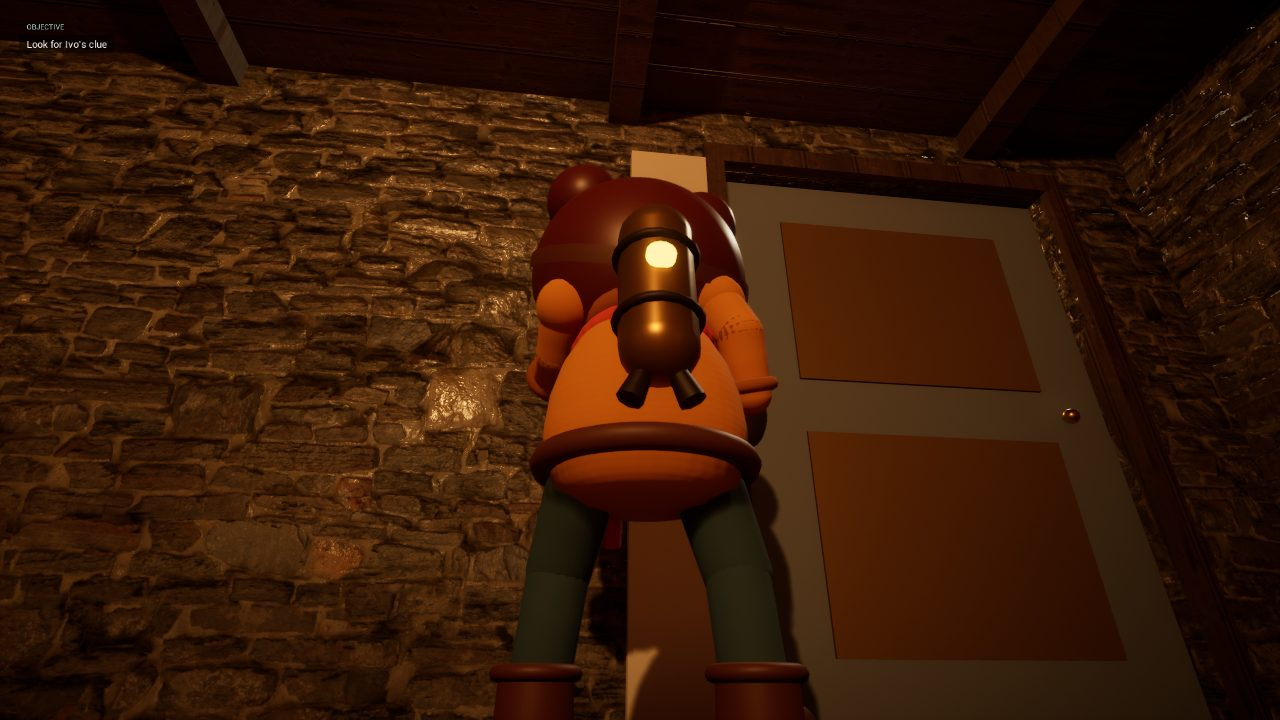
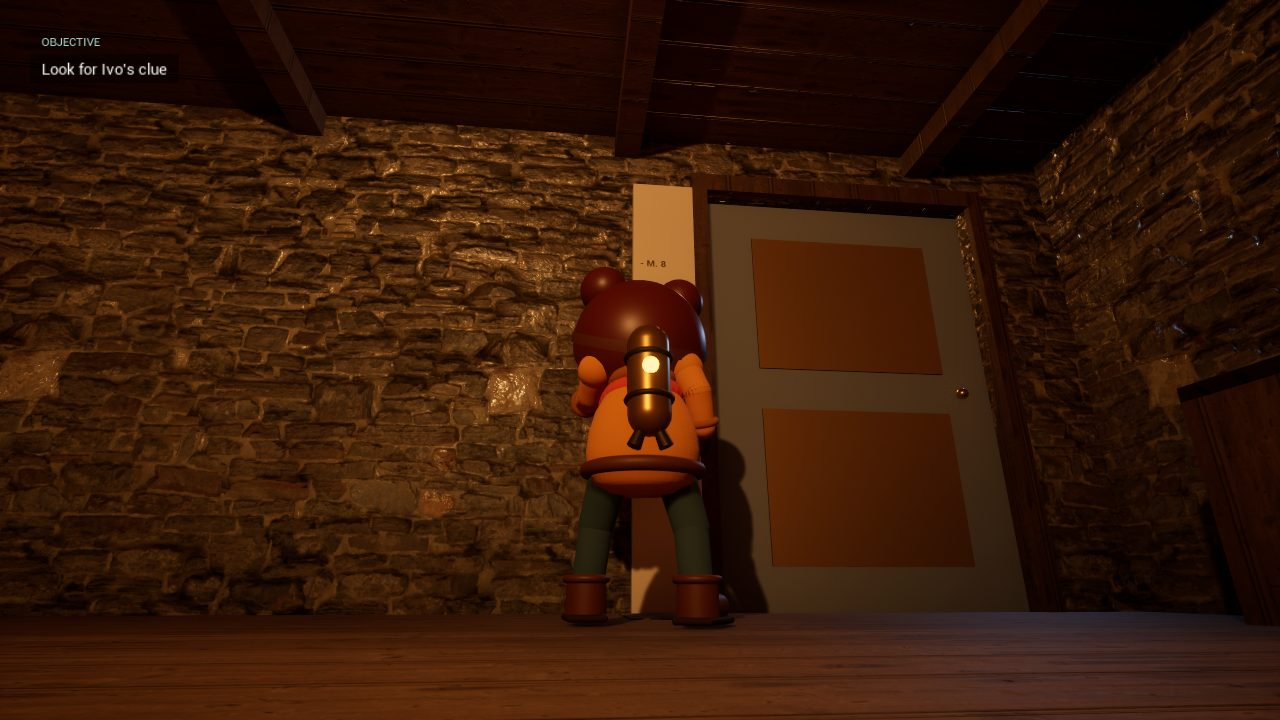
Docs: where the game stands, the repair pass, the packaged results, the itch page

diff --git a/docs/HOUSE_REPAIR_PASS.md b/docs/HOUSE_REPAIR_PASS.md
@@ -1,0 +1,83 @@
+# Repair pass on the Stormworks → house → reveal sequence (2026-10-30)
+
+Each item from the review of the 2:11 recording of 2026-10-29, what caused it, and what was done. The
+recording itself was not on this machine, so defects were reproduced in new captures. Everything
+"verified" below is verified by the bot or by measurement. Nobody has played this pass by hand yet.
+
+## Fixed, with the cause
+
+| ID | Finding | Cause found | Fix | How it was checked |
+| --- | --- | --- | --- | --- |
+| C05 | Mara head-down in the tow and when swimming | Measured from the clips: `swimFwd` already lies flat (neck 27 cm ahead of the pelvis at the same height). The code added up to 70° on top, about 160° in all. The 70° was the web game's constant, carried over | One owner for her body in `MaraCharacter::Tick`: the clip lies her flat, the code only pitches that flat body along her travel. "Towed" is now an explicit state, not inferred from `IsFlying` | Bot: head leads her travel (cosine 0.96 in the tow); floats upright when still |
+| C06 | Bubble away from her head | Fixed offset in the mesh's frame, so it never followed the head bone | Attached to the `Head` bone, offset computed from the bind pose | Bot: never more than 20 cm from the bone |
+| C01 | Washing and Mara's head filling the view | The sheets have no collision, so the camera can end up behind one. Walls push the boom into her head | Sheets near the lens ride up to the rope; the boom rises over her as it shortens; she is hidden from the lens at the very last | Laundry: not yet seen in a capture of the exact spot, see below |
+| C02, C03 | T-pose, checker materials, loading text, sky warning on arrival | The level was shown while animations, textures, meshes and shaders were still arriving. The sky warning fires while the template's sky mesh is not ready | `AReadyGate`: a title card over the paused game until nothing is compiling or streaming, with a timeout that logs. It tests conditions, not a delay | Bot through the real level change: no T-pose (hand 31 cm from the bind pose) |
+| C04 | Lighthouse floating over blocks | It stood on stacked boxes, close to the house, with the scan's plaza fragments exposed | Moved to about 50 m from the jetty, on a crag of tilted slabs, its feet set into the rock's top | Screenshot `01_jetty` |
+| C07 | Stale "Get the gauge back" | The objective was only set once | Cleared for the grab, "Steer around the floating wreckage" for the tow, "Find the gauge", then "Swim to the gauge" | Bot checks the tow's objective, watched or skipped |
+| Q01 | Nacre as cables and a ball | Stretched spheres | A real tapered tube (one procedural mesh per arm), paler underside, suckers, wet rim. A lathed mantle that breathes. Eyes with bar pupils | Screenshots |
+| Q02, Q05 | Red catwalk; silhouettes; "Swim to the light" among many lights | Alarm lamps at 12,800; windows and seeds brighter than anything that mattered | Alarm pulse reduced by about two thirds. Windows, seeds and lanterns dimmed. A soft light on Mara under water. A warm glint on the gauge, which is now the objective | Screenshots |
+| Q06 | Small text | UI scale could fall to 0.6 | Larger everywhere, minimum 1.04 at 720p | Screenshots at 1536 wide |
+
+Also from the review's leads:
+
+- **Tow steering:** left and right came from world up each frame and could collapse on steep stretches.
+  They are now carried along the path. Verified with real keys: 140 cm right in the hall, 140 cm left
+  down the steep shaft, 140 cm up in the passage.
+- **Water scope:** still the default physics volume, set at the reveal. See *Not done*.
+
+## Found by moving the bot onto real keys
+
+The bot now walks with W, presses E, steers with WASD, and swims with Space and C, through the input
+mappings. That found a bug no earlier test could: **Space did not swim her up at all** (0 cm).
+`ACharacter::bPressedJump` lasts a single frame when there is no jump hold time. She has her own flag
+now (229 cm in one second).
+
+## Audio: the numbers changed the plan
+
+The review's −30.4 LUFS came from the capture. `tools/unreal/measure_audio.py` measures what the game
+itself outputs (`-HouseRecordAudio`): **−22.7 LUFS integrated, −8.1 dBFS sample peak**, close to the
+usual −24 LUFS home target. About 8 dB of the "quiet mix" was capture gain, so nothing was boosted.
+Added instead: the splash and closing water at the surface, her swim strokes, the wobble of the bubble,
+the storm through the cracks at the searchlight, and a cut to her heartbeat at the grab.
+
+**Nobody has listened to any of this**, including me. These are levels, not judgements.
+
+## Results (2026-10-31)
+
+One continuous run, Stormworks then the house, 1600×900 on the RTX 2050 laptop: **67/67 and 37/37**,
+mean frame 28.7 ms and 28.6 ms. The same result came from each of the last four runs.
+
+- **Frame time:** the 37 ms seen earlier was not the new content. With no Ollama model loaded the house
+  is back at about the old 27.6 ms. No matched before/after run was made.
+- **GPU stall:** one run froze with GPU timeouts over 5 s. Ollama holds 2 GB of this card's 4 GB when a
+  model is loaded and reloaded during that session; the link is likely, not proven.
+- **Unfocused audio:** Unreal mutes an unfocused game, recordings included.
+  `-ini:Engine:[Audio]:UnfocusedVolumeMultiplier=1.0` keeps it on.
+
+## The packaged game (2026-11-01)
+
+Windows Shipping build, 355 MB zip, title "It Only Needs Mara" (the internal project is still
+`ItTakesOne`). Tested from the extracted zip: **67/67 and 37/37**, mean frame 22.5 ms (about 45 fps) at
+1600×900, with no model in Ollama. Playable 15.4 s after a first launch and 11.3 s after a later one.
+The 52 s freeze of an uncooked `-game` run does not happen.
+
+The packaged run found a bug the editor cannot: the washing line was built only in `OnConstruction`,
+which a cooked game does not run, so it was missing. `BeginPlay` now builds it when it is absent.
+
+Rebuild: `RunUAT BuildCookRun -clientconfig=Shipping -build -cook -stage -pak -compressed -prereqs
+-nodebuginfo -archive` (25 min here; `-skipcook` for code-only changes, 3 min). Mara, the sounds and the
+cinematics are loaded by path, so `DefaultGame.ini` lists their folders under `DirectoriesToAlwaysCook`.
+
+## Not done
+
+- **Skipping the grab:** `-HouseSkipGrab` is written but has not been run.
+
+- **Water volume:** the default physics volume still turns to water at the reveal. It must become a
+  scoped volume before any dry space follows the conservatory.
+- **Other sounds:** the footstep, tether and gauge sounds were not reworked.
+- **Art direction:** the architecture is still mostly boxes. The cottage, the hall and the lantern
+  houses have not had a real pass.
+- **Cinematic staging:** the grab is still one 3 s shot. Rescue pacing was not rewritten.
+- **Volume settings:** there is no settings screen to put them in.
+- **Tether range:** the recording's out-of-range attempts and its catwalk fall need input logs.
+- **Flaky Stormworks step:** the bot once walked off the gallery instead of onto the crate (1 run of 3).

diff --git a/docs/ITCH_PAGE.md b/docs/ITCH_PAGE.md
@@ -1,0 +1,74 @@
+# itch.io page
+
+Text and settings for the game's page at https://itch.io/game/new. Keep the page on **Draft** until the
+owner has tried the download.
+
+## Form settings
+
+| Field | Value |
+| --- | --- |
+| Title | It Only Needs Mara |
+| Short description | A toy-sized prisoner, a tether, a storm, and something in the drains. |
+| Classification | Games |
+| Kind of project | Downloadable |
+| Release status | Prototype |
+| Pricing | No payments |
+| Uploads | `It_Only_Needs_Mara_Windows.zip`, marked **Windows** |
+| Genre | Adventure |
+| Tags (10 at most) | 3D, Third Person, Singleplayer, Puzzle-Platformer, Story Rich, Atmospheric, Cute, Short, Female Protagonist, Unreal Engine |
+| AI generation disclosure | Yes |
+| Visibility | Draft, then Public |
+
+## Description
+
+itch's editor is rich text: paste from `description_to_paste.txt`, not from this table version.
+
+---
+
+**Mara Venn woke up inside Breakwater, the prison that runs on the tide. She is getting out.**
+
+It Only Needs Mara is a short early demo of a single-player 3D adventure. Play it from the start and it runs
+straight through both parts.
+
+**The Stormworks Escape.** Ivo's workshop, a storm, and his maintenance tether. A teal brass ring means
+the tether works: pull machines into place, swing across the gaps, and run the old catwalk as it falls
+behind you.
+
+**The house under Knoll Rock.** Ivo's cottage, under the lighthouse. His gauge is on the bench, the
+storm goes quiet at the door, and something in the drains has noticed you. Look at it and it stops.
+Look away and it creeps on. It is not a pipe.
+
+### Controls
+
+| Action | Keyboard and mouse | Gamepad |
+| --- | --- | --- |
+| Move, look | WASD, mouse | Sticks |
+| Jump; swim up | Space | A |
+| Swim down | C or Left Ctrl | LB |
+| Tether, interact | E or left click | Right trigger |
+| Skip a cinematic | Space, Enter or E | A or B |
+| Back to the last checkpoint | R | View / Back |
+
+### Requirements
+
+Windows 10 or 11, 64-bit, with a DirectX 12 graphics card. Built and tested on a laptop with an RTX 2050
+and 8 GB of RAM, at about 45 frames per second. Close other heavy programs first. Windows may warn
+about an unknown publisher: choose "More info", then "Run anyway".
+
+This is a prototype: the art is rough and it is still being built. Tell me what confused you, where you
+got stuck, and whether the tentacle made you laugh.
+
+### Credits
+
+- **Lighthouse:** "Seven Foot Knoll Lighthouse" by [Katie Wolfe](https://sketchfab.com/katiewolfe),
+  [CC BY 4.0](http://creativecommons.org/licenses/by/4.0/). Plaza removed, mesh simplified and textures
+  reduced. [Source](https://sketchfab.com/3d-models/seven-foot-knoll-lighthouse-949111fbde5b4564811cad303b09727c).
+- **Character parts and animation:** Quaternius (CC0).
+- **Textures:** Poly Haven (CC0).
+- **Sound effects:** Kenney (CC0).
+- **Music:** KiluaBoy, Thimras, TAD and RandomMind (CC0).
+
+Unreal® Engine, Copyright 1998 – 2026, Epic Games, Inc. All rights reserved. Unreal® is a trademark or
+registered trademark of Epic Games, Inc. in the United States of America and elsewhere.
+
+---

diff --git a/docs/STATUS.md b/docs/STATUS.md
@@ -1,5 +1,15 @@
 # Status
 
+**Where the game is (2026-11-01).** The public title is **It Only Needs Mara**; "It Takes One" remains the
+internal project name. The latest version is the Unreal 5.8 game (`unreal/ItTakesOne.uproject`): The
+Stormworks Escape, then the house under Knoll Rock, played straight through. A packaged Windows build
+passed 67/67 and 37/37 bot checks from its extracted zip, at about 45 fps at 1600×900 on the RTX 2050
+laptop, playable 11 to 15 s after launch. The owner played the build before these repairs; no outside
+player has played it. Details:
+[HOUSE_REPAIR_PASS.md](HOUSE_REPAIR_PASS.md), [UNREAL_HOUSE.md](UNREAL_HOUSE.md),
+[ITCH_PAGE.md](ITCH_PAGE.md). The three.js web game (Chapters One to Three) is the earlier browser
+version.
+
 | | |
 | --- | --- |
 | **Branch** | `claude/house-slice` (the house under Knoll Rock, the first story slice; local, not pushed), on `claude/stormworks-polish` (the Unreal project moved into the repo; commit cdee5cf, not pushed), on `claude/stormworks-mara-sound` (draft PR #13: Mara, sound, cinematics, music in The Stormworks Escape), stacked on `claude/unreal-stormworks` (PR #12) → `claude/unreal-export` (PR #11) → `claude/game-feel` (draft PR #8) → `claude/low-tide` (PR #7) → `claude/toy-hero` (PR #6) → `claude/chapter-one-v2` (PR #5) → `claude/chapter-one-quality` (PR #4) → `claude/polish-4979589` (PR #3) → `claude/breathing-engine` (PR #2) → `claude/first-playable` (PR #1) |
@@ -44,10 +54,11 @@ steps 1 to 12, in the in-repo Unreal project (`unreal/ItTakesOne.uproject`, map
   - `unreal/Source/ItTakesOne/House` (director, tentacle, details, tow, game mode, HUD, bot);
   - swimming and the air bubble for Mara;
   - `tools/unreal/build_house.py` and `make_house_sounds.py`.
-- **Played by:** the bot only. Nobody has played or heard it.
+- **Played by:** the bots; the owner played the build before the repair pass. No outside player yet, and
+  the sound has not had a listening review.
 - **Results:**
-  - The house bot passed 25/25 in 69.8 s, mean frame 27.6 ms on the RTX 2050 laptop.
-  - The Stormworks runner on the in-repo project passed 67/67.
+  - The packaged game, from its extracted zip: 67/67 Stormworks and 37/37 house checks.
+  - Mean frame 22.5 ms at 1600×900 on the RTX 2050 laptop.
 
 ## The Stormworks Escape, second pass: Mara, sound, cinematics, music (`claude/stormworks-mara-sound`, draft PR #13)
 

diff --git a/docs/TESTING.md b/docs/TESTING.md
@@ -381,11 +381,19 @@ UnrealEditor.exe unreal/ItTakesOne.uproject /Game/ItTakesOne/Maps/House -game -w
 Results: `unreal/Saved/HouseSelfTest/results.txt`, same format as Stormworks, with screenshots 01–16
 beside it. The bot:
 
-- presses the real Space key once, to check the jump survives the house's own Space mapping;
+- plays with real keys through the input mappings: W to walk and swim, E to interact, A, D and W to
+  steer, Space and C to swim up and down (the camera is set directly, standing in for the mouse);
 - walks the route, looks at each detail and inspects the gauge;
 - watches the theft, looks at the tentacle and away, and chases it to the teacup and the lamp;
-- waits out the searchlight, then lets the grab's cinematic play to its end;
-- rides the tow without steering, swims to Nacre and takes the gauge.
+- waits out the searchlight, then lets the grab's cinematic play to its end, or skips it with Space
+  when started with `-HouseSkipGrab`;
+- steers the tow right, left down the steep shaft, and up, then swims to Nacre and takes the gauge;
+- checks how Mara's body lies (head leading her travel, the bubble on her head).
+
+Other switches:
+- `-StormChainTest` on the Stormworks map goes straight on to the house by the real level change;
+- `-HouseRecordAudio` writes what the game outputs to `output.wav`, which
+  `tools/unreal/measure_audio.py` measures (levels only: it cannot say what sounds good).
 
 It is not a playtest.
 
@@ -402,9 +410,10 @@ It is not a playtest.
 
 ## Latest results
 
-**The house under Knoll Rock (Unreal, 2026-10-25):** 25/25 bot checks in 69.8 s, from the in-repo
-project at 1280×720 on the RTX 2050 laptop: mean frame 27.6 ms, 184 of 2,511 frames over 33 ms.
-The 25th check is new: her reflection in the window falls 0.9 s behind when the glass plays.
+**The packaged game (Unreal, 2026-11-01):** from the extracted Windows zip, 67/67 Stormworks and 37/37
+house checks in one continuous run, mean frame 22.5 ms at 1600×900 on the RTX 2050 laptop. The bot now
+uses real keys. A first packaged run failed one check, which found the washing line missing from
+cooked builds; fixed, see [HOUSE_REPAIR_PASS.md](HOUSE_REPAIR_PASS.md).
 
 The first runs found two real problems, both fixed:
 - **A soft-lock:** the tentacle froze whenever it was looked at, including mid-snatch and in front

diff --git a/docs/ASSETS.md b/docs/ASSETS.md
@@ -165,8 +165,8 @@ paid; it reuses the Stormworks content above (materials, recorded sounds, Mara).
 
 | Content | Source | Licence |
 | --- | --- | --- |
-| 16 synthesised sounds (`H_*`: Nacre's slither, suction, slurp, exhale and sniff, the climbing water, the room tone and clock, the lighthouse hum with Ivo's motif, the motif on bells, the Watch's horn, the shaking house, the searchlight's hum, the grab, the bubble's wobble, a heartbeat, the deep) | Synthesised by `tools/unreal/make_house_sounds.py` with the Stormworks helpers; no recordings | Original (this repository) |
-| The lighthouse on Knoll Rock | The Seven Foot Knoll Lighthouse scan above (Katie Wolfe), placed by `tools/unreal/build_house.py` about 25 m from the jetty | **CC BY 4.0**: the credit above applies to any build, video or screenshot of the slice. The sign on its railing is not covered; it is high above the house in the storm |
+| 17 synthesised sounds (`H_*`: Nacre's slither, suction, slurp, exhale and sniff, the climbing water, the room tone and clock, the lighthouse hum with Ivo's motif, the motif on bells, the Watch's horn, the shaking house, the searchlight's hum, the grab, the bubble's wobble, a swimming stroke, a heartbeat, the deep) | Synthesised by `tools/unreal/make_house_sounds.py` with the Stormworks helpers; no recordings | Original (this repository) |
+| The lighthouse on Knoll Rock | The Seven Foot Knoll Lighthouse scan above (Katie Wolfe), placed by `tools/unreal/build_house.py` about 50 m from the jetty | **CC BY 4.0**: the credit above applies to any build, video or screenshot of the slice. The sign on its railing is not covered; it is high above the house in the storm |
 | The house, the hall, the passage, the conservatory, Nacre, her tentacles, the details, the materials (`/Game/ItTakesOne/House`), the grab's cinematic | Engine basic shapes placed by `build_house.py`, and the C++ in `unreal/Source/ItTakesOne/House` | Original (this repository); engine content under the Unreal Engine EULA |
 
 ## Libraries

diff --git a/docs/UNREAL_HOUSE.md b/docs/UNREAL_HOUSE.md
@@ -8,8 +8,8 @@ meets Nacre, who gives the gauge back. It ends on "To be continued: the Sunken C
 It runs in the in-repo Unreal project (`unreal/ItTakesOne.uproject`), beside the Stormworks map, and
 reuses its hero, materials, sounds and cinematic rules.
 
-**Played by whom:** only by the scripted self-test bot (below), in the real game window. **No person
-has played it or listened to it yet.** How long it takes, whether the tentacle reads as funny or
+**Played by whom:** the scripted self-test bot (below); the owner played the build before the repair pass.
+**No outside player has tried it, and nobody has reviewed the sound.** How long it takes, whether the tentacle reads as funny or
 scary, and whether the tow is fun to steer are all unknown until someone plays it.
 
 ## Open it
@@ -79,7 +79,7 @@ swims to Nacre and takes the gauge. It writes `unreal/Saved/HouseSelfTest/result
 format as the Stormworks test (last line `SELFTEST RESULT: N passed, M failed, T s`), and 16
 screenshots beside it.
 
-Latest run (2026-10-25): **25/25 in 69.8 s**. Mean frame 27.6 ms at 1280×720 on the RTX 2050 laptop.
+Latest run (2026-11-01, packaged game from its zip): **37/37 in 65.5 s**. Mean frame 22.7 ms at 1600×900 on the RTX 2050 laptop.
 Its screenshots and results are in [evidence/house-slice](evidence/house-slice).
 
 ## Rules worth knowing when changing it
@@ -102,7 +102,7 @@ Its screenshots and results are in [evidence/house-slice](evidence/house-slice).
 
 ## Assets
 
-- **Sounds:** all 16 synthesised by `make_house_sounds.py`. There are no recordings and no licences.
+- **Sounds:** all 17 synthesised by `make_house_sounds.py`. There are no recordings and no licences.
   The tow's knocks reuse the Stormworks recorded landings (Kenney, CC0; see [ASSETS.md](ASSETS.md)).
 - **Lighthouse:** the Seven Foot Knoll scan (Katie Wolfe, **CC BY 4.0**; see ASSETS.md), on Knoll
   Rock about 25 m from the jetty. The credit applies to any build, video or screenshot.
